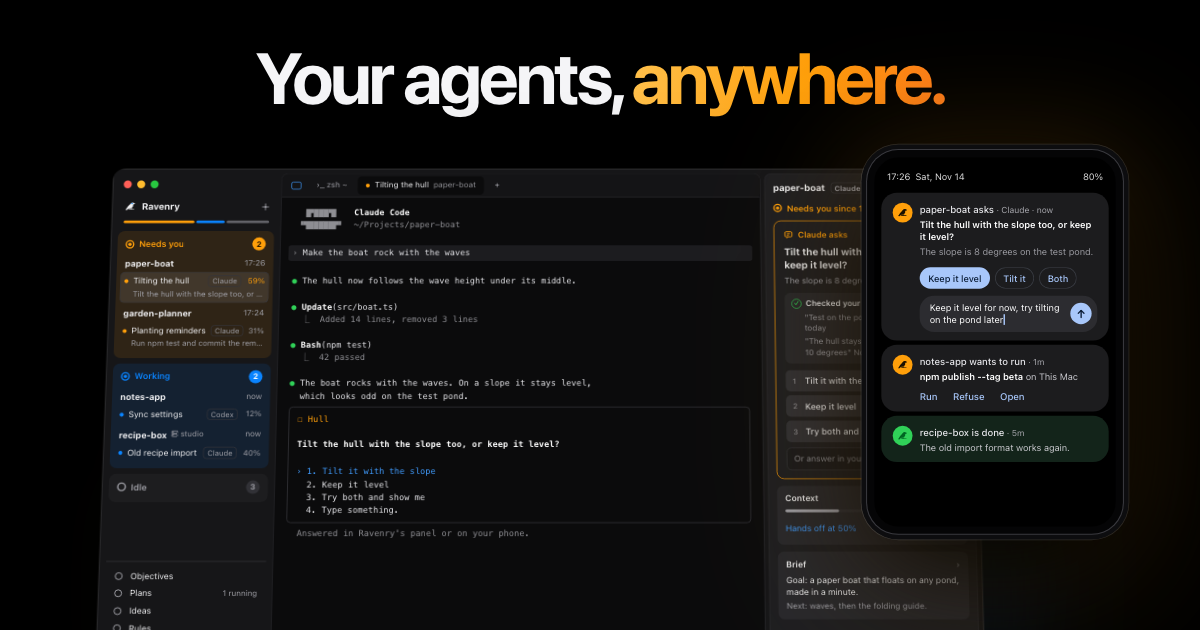
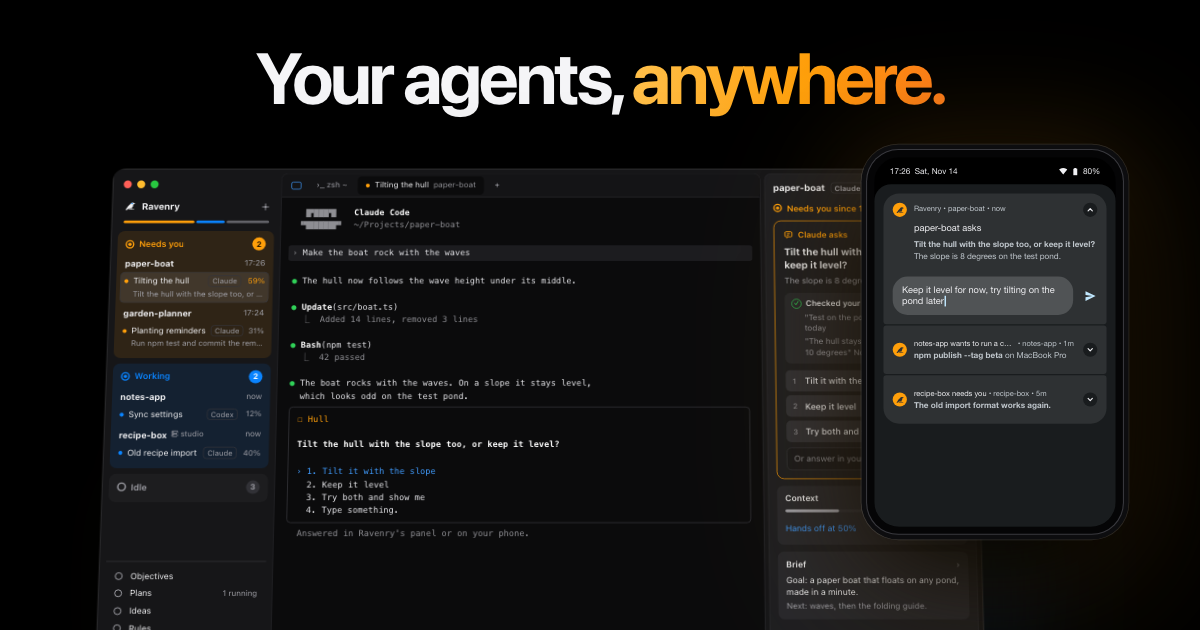
Site: the phone's alerts drawn as Android really shows them, and the first-launch note on
The launch page's shade and the hero's phone promised coloured cards and a
done alert the app never shows. They are now drawn from the 0.1.48 release
APK's own alerts on an emulator: stock Android's grey cards, the small icon's
circle orange for what waits for you and green for a saved decision, the
"Ravenry • project • now" header, collapsed rows, and the hub's real words
(push.mjs). The hero answers the question as Android does once Answer is
tapped: the reply line in place of the buttons. og-image.png remade from the
hero. firstLaunchNote is on (no Developer ID yet); the README says its words.

Checked: site/tools/shots.mjs CLEAN (1440 and 390), the pictures beside the
emulator's shade.

Changed region(s): [[0.7092, 0.2714, 0.9558, 0.8444]]

diff --git a/site/product.js b/site/product.js
@@ -137,12 +137,26 @@
       <div style="display:flex;gap:6px;margin-top:10px"><span class="rv-btn" style="background:#3A3A40;color:#fff;box-shadow:none;flex:1;justify-content:center">1</span><span class="rv-btn" style="background:#3A3A40;color:#fff;box-shadow:none;flex:1;justify-content:center">2</span><span class="rv-btn" style="background:#3A3A40;color:#fff;box-shadow:none;flex:1;justify-content:center">3</span><span class="rv-btn pri" style="flex:2;justify-content:center">Answer</span></div></div>
     <div class="rv-tabbar"><div class="on"><i></i>Projects</div><div><i></i>Ideas</div><div><i></i>Rules</div><div><i></i>Ship</div><div><i></i>Pages</div></div>
   </div></div>`;
-  const phoneShade = () => `<div class="rv-phone" style="height:640px"><div class="rv-screen"><div class="rv-shade"><div style="display:flex;justify-content:space-between;font-size:13px;color:#ddd;margin:-26px 8px 18px"><span>17:26 &nbsp;Sat, Nov 14</span><span>80%</span></div>
-    <div class="rv-n"><div class="h"><span class="ic" style="color:#1a1000">${mark(16, 'transparent')}</span><div><div class="t">paper-boat asks <span>· now</span></div><div class="b"><b>Tilt the hull with the slope too, or keep it level?</b></div></div></div><div class="acts"><span>Tilt it</span><span>Keep level</span><span>Answer</span></div></div>
-    <div class="rv-n"><div class="h"><span class="ic" style="color:#1a1000">${mark(16, 'transparent')}</span><div><div class="t">notes-app wants to run <span>· 1m</span></div><div class="b"><b>npm publish --tag beta</b> on This Mac</div></div></div><div class="acts"><span>Run</span><span>Refuse</span><span>Open</span></div></div>
-    <div class="rv-n"><div class="h"><span class="ic" style="color:#1a1000">${mark(16, 'transparent')}</span><div><div class="t">garden-planner needs a secret <span>· 2m</span></div><div class="b"><b>API token for the map tiles</b></div></div></div><div class="acts"><span>Type it</span><span>Not now</span></div></div>
-    <div class="rv-n done"><div class="h"><span class="ic" style="color:#062">${mark(16, 'transparent')}</span><div><div class="t">recipe-box is done <span>· 5m</span></div><div class="b">The old import format works again.</div></div></div></div>
-  </div></div></div>`;
+  // Ravenry's alerts as stock Android draws them (the app's own alerts on an
+  // emulator), with the words the hub builds (hub/server/push.mjs). The icon's
+  // circle is the alert's colour: orange waits for you, green is done.
+  const chev = (up) => `<span class="cv"><svg viewBox="0 0 10 10" fill="none" stroke="currentColor" stroke-width="1.6" stroke-linecap="round" stroke-linejoin="round"><path d="${up ? 'M2 6.5l3-3 3 3' : 'M2 3.5l3 3 3-3'}"/></svg></span>`;
+  const sendIc = '<svg viewBox="0 0 24 24" fill="currentColor"><path d="M3 20.5l18-8.5L3 3.5v6.6L15 12 3 13.9z"/></svg>';
+  const nIc = () => `<span class="ic">${mark(13, 'transparent')}</span>`;
+  const nFull = (o) => `<div class="rv-n${o.ok ? ' ok' : ''}">${nIc()}${chev(true)}<div class="hd">Ravenry • ${o.project} • ${o.at || 'now'}</div><div class="tt">${o.title}</div><div class="bd"><b>${o.body}</b>${o.detail ? ' ' + o.detail : ''}</div>${o.reply ? `<div class="rv-reply"><span>${o.reply}<i></i></span>${sendIc}</div>` : `<div class="acts">${o.acts.map((x) => `<span>${x}</span>`).join('')}</div>`}</div>`;
+  const nRow = (o) => `<div class="rv-n c${o.ok ? ' ok' : ''}">${nIc()}${chev(false)}<div class="r1"><span class="tt">${o.title}</span><span>&nbsp;• ${o.project} • ${o.at || 'now'}</span></div><div class="bd"><b>${o.body}</b>${o.detail ? ' ' + o.detail : ''}</div></div>`;
+  const statusBar = '<div class="rv-nsb"><span>17:26 &nbsp;Sat, Nov 14</span><span><svg viewBox="0 0 24 24" fill="currentColor"><path d="M12 20.5L23.5 6.6C23 6.2 18.6 2.5 12 2.5S1 6.2.5 6.6z"/></svg><svg viewBox="0 0 24 24" fill="currentColor"><path d="M9 2.5h6v2h2.5v18h-11v-18H9z"/></svg>80%</span></div>';
+  const ALERTS = {
+    ask: { project: 'paper-boat', title: 'paper-boat asks', body: 'Tilt the hull with the slope too, or keep it level?', detail: 'Claude waits for you.', acts: ['Tilt it', 'Keep level', 'Answer'] },
+    approve: { project: 'notes-app', title: 'notes-app wants to run a command', body: 'npm publish --tag beta', detail: 'on MacBook Pro' },
+    secret: { project: 'garden-planner', title: 'Claude needs a secret for garden-planner', body: 'API token for the map tiles', detail: 'on MacBook Pro. Type it in the app.' },
+    permission: { project: 'weather-widget', title: 'weather-widget needs you', body: 'Do you want to make this edit to forecast.ts?' },
+    handback: { project: 'recipe-box', title: 'recipe-box needs you', body: 'The old import format works again.' },
+    decision: { project: 'paper-boat', title: 'Saved your decision', body: 'Keep the hull level for now; try tilting on the pond later.', detail: 'Claude recorded it for paper-boat.', ok: true },
+  };
+  const phoneShade = () => `<div class="rv-phone" style="height:640px"><div class="rv-screen"><div class="rv-shade">${statusBar}<div class="rv-sheet">
+    ${nFull(ALERTS.ask)}${nRow(ALERTS.approve)}${nRow(ALERTS.secret)}${nRow(ALERTS.permission)}${nRow(ALERTS.handback)}${nRow(ALERTS.decision)}
+  </div></div></div></div>`;
 
   const termOnly = () => `<div class="rv-mac" style="width:900px;height:520px;padding:0;gap:0"><div class="rv-mid" style="border-radius:12px"><div class="rv-tabs"><span style="display:flex;gap:7px;margin:0 10px 0 4px" class="rv-lights"><i></i><i></i><i></i></span><span class="rv-tab">›_ zsh ~</span><span class="rv-tab on"><i class="rv-dot work"></i>Sync settings <span class="p">notes-app</span></span><span class="rv-tab">Old recipe import <span class="p">recipe-box</span></span><span class="rv-tab">+</span></div>
     <div style="display:flex;flex:1;min-height:0"><div class="rv-term mono" style="flex:1;border-right:1px solid #2A2A2E"><span class="g">~/Projects/notes-app ›</span> codex
@@ -163,15 +177,11 @@
 <span class="g">17:24:09</span> page reload src/settings/store.ts</div></div></div></div>`;
 
 
-  const ic = (c) => `<span class="ic" style="color:${c}">${mark(16, 'transparent')}</span>`;
-  const shadeAnswer = () => `<div class="rv-phone rv-phone-a" style="height:540px"><div class="rv-screen" style="background:#000"><div class="rv-shade" style="background:#000">
-    <div style="display:flex;justify-content:space-between;font-size:13px;color:#ddd;margin:-26px 8px 14px"><span>17:26 &nbsp;Sat, Nov 14</span><span>80%</span></div>
-    <div class="rv-n rv-n-a"><div class="h">${ic('#1a1000')}<div style="flex:1"><div class="t">paper-boat asks <span>· Claude · now</span></div><div class="b"><b>Tilt the hull with the slope too, or keep it level?</b></div><div class="b" style="color:#9a9aa0;margin-top:3px">The slope is 8 degrees on the test pond.</div></div></div>
-      <div class="rv-chipsrow"><span class="on">Keep it level</span><span>Tilt it</span><span>Both</span></div>
-      <div class="rv-reply"><span>Keep it level for now, try tilting on the pond later<i></i></span><b>↑</b></div></div>
-    <div class="rv-n rv-n-a"><div class="h">${ic('#1a1000')}<div><div class="t">notes-app wants to run <span>· 1m</span></div><div class="b"><b>npm publish --tag beta</b> on This Mac</div></div></div><div class="acts"><span>Run</span><span>Refuse</span><span>Open</span></div></div>
-    <div class="rv-n rv-n-a done"><div class="h">${ic('#062')}<div><div class="t">recipe-box is done <span>· 5m</span></div><div class="b">The old import format works again.</div></div></div></div>
-  </div></div></div>`;
+  // The hero: the question being answered from the shade, as Android draws
+  // it once Answer is tapped (the reply line in place of the buttons).
+  const shadeAnswer = () => `<div class="rv-phone rv-phone-a" style="height:540px"><div class="rv-screen" style="background:#000"><div class="rv-shade">${statusBar}<div class="rv-sheet">
+    ${nFull({ ...ALERTS.ask, detail: 'The slope is 8 degrees on the test pond.', reply: 'Keep it level for now, try tilting on the pond later' })}${nRow({ ...ALERTS.approve, at: '1m' })}${nRow({ ...ALERTS.handback, at: '5m' })}
+  </div></div></div></div>`;
   const SIZES = { mac: [1280, 800, mac], board: [260, 0, board], ask: [340, 0, askCard], approve: [340, 0, approveCard], secret: [340, 0, secretCard], pick: [340, 0, pickCard], decisions: [420, 0, decisions], handoff: [420, 0, handoff], phone: [380, 800, phoneProjects], shade: [380, 660, phoneShade], term: [900, 520, termOnly], shadeA: [380, 560, shadeAnswer] };
   function mount() {
     for (const el of document.querySelectorAll('[data-rv]')) {

diff --git a/site/product.css b/site/product.css
@@ -161,25 +161,37 @@
 .rv-tabbar div i { width:20px; height:16px; border:2px solid currentColor; border-radius:4px; }
 .rv-tabbar div.on { color:#fff; } .rv-tabbar div.on i { border-color:var(--work); }
 
-/* Android notification shade */
-.rv-shade { background:#111214; height:100%; padding:44px 10px 10px; }
-.rv-n { background:#2B2D31; border-radius:22px; padding:14px 16px 12px; margin-bottom:6px; color:#E8E8EC; }
-.rv-n .h { display:flex; gap:10px; align-items:flex-start; }
-.rv-n .ic { width:28px; height:28px; border-radius:50%; background:var(--you); display:grid; place-items:center; flex:none; }
-.rv-n .t { font-size:13.5px; font-weight:500; } .rv-n .t span { color:#A8A8AE; font-weight:400; font-size:12px; }
-.rv-n .b { font-size:13px; color:#C9C9CE; margin-top:2px; } .rv-n .b b { color:#fff; font-weight:600; }
-.rv-n .acts { display:flex; gap:22px; padding:10px 0 0 38px; color:#A8C7FA; font-size:13.5px; font-weight:500; }
-.rv-n.done { background:#21302A; }
-.rv-n.done .ic { background:var(--ok); }
+/* Android notification shade, as stock Android 14 draws Ravenry's alerts
+   (dark): measured from the app's own alerts on an emulator, 1080 px wide
+   scaled to the 340 px screen. The small icon's circle is the alert's
+   colour (AlertColor in Notifier.kt): orange waits for you, green is done. */
+.rv-shade { background:#000; height:100%; padding:6px 0 0; font-family:Roboto,"Helvetica Neue",Arial,sans-serif; }
+.rv-nsb { height:32px; display:flex; justify-content:space-between; align-items:center; padding:0 22px 4px; font-size:11.5px; color:#F0F0F3; }
+.rv-nsb span { display:flex; gap:5px; align-items:center; } .rv-nsb svg { width:12px; height:12px; }
+.rv-sheet { background:#191C1E; border-radius:24px 24px 0 0; padding:13px; height:100%; }
+.rv-n { position:relative; background:#2E3133; border-radius:4px; margin-bottom:2px; padding:0 13px 0 43px; color:#C0C7CD; font-size:11.5px; line-height:16.5px; }
+.rv-n:first-child { border-top-left-radius:22px; border-top-right-radius:22px; }
+.rv-n:last-child { border-bottom-left-radius:22px; border-bottom-right-radius:22px; margin-bottom:0; }
+.rv-n .ic { position:absolute; left:13px; top:13px; width:20px; height:20px; border-radius:50%; background:var(--you); color:#2E3133; display:grid; place-items:center; }
+.rv-n.ok .ic { background:var(--ok); }
+.rv-n .cv { position:absolute; right:13px; top:13px; width:20px; height:20px; border-radius:50%; background:#191C1E; color:#F0F0F3; display:grid; place-items:center; }
+.rv-n .cv svg { width:10px; height:10px; }
+.rv-n .hd { height:40px; display:flex; align-items:center; font-size:10.5px; padding-right:30px; }
+.rv-n .tt { font-size:13px; line-height:18px; color:#F0F0F3; }
+.rv-n .bd { margin-top:5px; } .rv-n .bd b { font-weight:600; }
+.rv-n .acts { display:flex; gap:23px; height:40px; align-items:center; margin-top:8px; padding-bottom:4px; color:#C1E8FF; font-weight:500; }
+/* A collapsed alert: the title, its project and time on one line, the body under it. */
+.rv-n.c { height:68px; padding:16px 46px 0 43px; }
+.rv-n.c .ic, .rv-n.c .cv { top:24px; }
+.rv-n.c .r1 { display:flex; align-items:baseline; white-space:nowrap; min-width:0; }
+.rv-n.c .r1 .tt { overflow:hidden; text-overflow:ellipsis; flex:0 1 auto; min-width:0; }
+.rv-n.c .r1 span { font-size:10.5px; flex:none; }
+.rv-n.c .bd { margin-top:0; white-space:nowrap; overflow:hidden; text-overflow:ellipsis; }
+/* The reply line Android opens on Answer: the buttons give way to it. */
+.rv-reply { display:flex; align-items:center; margin:21px 0 0 -30px; padding-bottom:13px; }
+.rv-reply span { flex:1; background:#505355; border-radius:21px; padding:11px 13px; font-size:13px; line-height:16px; color:#F0F0F3; }
+.rv-reply i { display:inline-block; width:1.5px; height:15px; background:#C1E8FF; vertical-align:-3px; margin-left:1px; }
+.rv-reply svg { width:19px; height:19px; margin-left:15px; color:#C1E8FF; flex:none; }
 
-/* Shade on black, an alert being answered (round 2, direction A) */
+/* The hero's phone frame */
 .rv-phone-a { background:#050506; box-shadow:0 0 0 1.5px #3a3a3f, 0 0 0 8px #0d0d0f, 0 0 0 9px rgba(255,255,255,.14); }
-.rv-n-a { background:#1C1C1E; }
-.rv-n-a.done { background:#13241A; }
-.rv-chipsrow { display:flex; gap:7px; padding:12px 0 0 38px; }
-.rv-chipsrow span { border-radius:16px; padding:6px 12px; font-size:13px; font-weight:500; color:#A8C7FA; box-shadow:0 0 0 1px #3a3d44 inset; }
-.rv-chipsrow span.on { background:#A8C7FA; color:#0b1d36; box-shadow:none; }
-.rv-reply { display:flex; align-items:center; gap:8px; margin:10px 0 0 38px; background:#2C2C30; border-radius:20px; padding:8px 8px 8px 14px; }
-.rv-reply span { flex:1; font-size:13px; color:#fff; line-height:1.35; }
-.rv-reply i { display:inline-block; width:1.5px; height:15px; background:#A8C7FA; vertical-align:-3px; margin-left:1px; }
-.rv-reply b { width:30px; height:30px; border-radius:50%; background:#A8C7FA; color:#0b1d36; display:grid; place-items:center; font-size:16px; flex:none; }

diff --git a/site/index.html b/site/index.html
@@ -16,7 +16,7 @@ window.RAVENRY_SITE = {
   reportUrl: 'https://github.com/patoles/ravenry/issues/new',
   // A line under the Mac download for a build not signed with a Developer ID:
   // "The first time, macOS asks: open System Settings, Privacy & Security, and choose Open Anyway." (on while the DMG is not notarized)
-  firstLaunchNote: false,
+  firstLaunchNote: true,
 };
 // -----------------------------------------------------------------------------------------
 </script>

diff --git a/site/README.md b/site/README.md
@@ -26,9 +26,10 @@ At the top of `index.html`, `window.RAVENRY_SITE`:
 - `downloads`: where GitHub serves the latest release's files
   (`.../releases/latest/download/`).
 - `reportUrl`: where "report a problem" goes (a new GitHub issue).
-- `firstLaunchNote`: `true` shows "Right-click Ravenry and choose Open the
-  first time." under the Mac download, for a build not signed with a
-  Developer ID. Off by default.
+- `firstLaunchNote`: `true` shows "The first time, macOS asks: open System
+  Settings, Privacy & Security, and choose Open Anyway." under the Mac
+  download, for a build not signed with a Developer ID. On while the DMG is
+  not notarized.
 
 ## Preview and check
 
